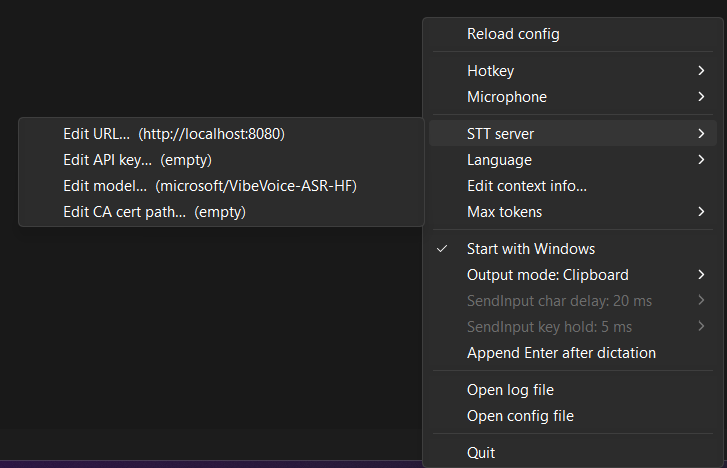
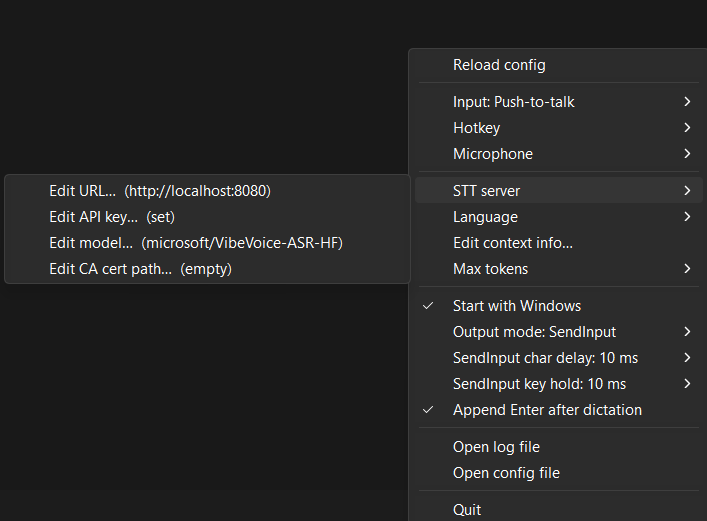
docs: refresh tray screenshot, document VAD mode + new defaults
Replaces the tray-menu.png with an up-to-date capture that shows the
new Input submenu and the SendInput char-delay / key-hold submenus.

README updates:
- Intro now mentions voice-activation as an alternative to push-to-talk.
- First-run checklist adds an Input-mode step + covers both cancel paths
  (PTT double-tap, PTT post-release, VAD hotkey).
- Config reference gains [input] and [vad] sections.
- SendInput docs note the new 10 ms key-hold default.
- Tray menu reference lists the new Input: Push-to-talk / Voice activation
  submenu.

diff --git a/README.md b/README.md
@@ -2,12 +2,15 @@
 
 ![vibe-dictate tray menu](assets/tray-menu.png)
 
-A Windows tray-resident push-to-talk dictation tool that talks to any
+A Windows tray-resident dictation tool that talks to any
 **OpenAI-compatible** speech-to-text server — most notably Microsoft's
 **VibeVoice ASR**, but also OpenAI Whisper itself, self-hosted Whisper
 /vLLM deployments, and anything else that speaks
 `POST /v1/audio/transcriptions`. Hold a hotkey, speak, release — the
-transcription lands in whatever window has focus.
+transcription lands in whatever window has focus. Or flip it into
+**voice-activation mode** and let the built-in VAD slice your speech
+into utterances automatically; the hotkey then becomes an "undo the
+last thing it picked up" button.
 
 Built for Hungarian dictation but works in any of the 50+ languages
 VibeVoice-ASR supports. Multilingual by accident of the backend; Hungarian
@@ -275,11 +278,16 @@ launch in `notepad.exe`).
    preset or `Rebind…` and press the combination you want.
 3. **Microphone**: tray → Microphone → pick a device, or leave on
    `(System default)`.
-4. **Hold-to-talk**: hold the hotkey, speak, release. Tray icon turns
-   green while recording. Transcription should appear in the focused
-   window 1-3 seconds after release.
-5. **Cancel**: double-tap the hotkey within 400ms while recording — the
-   tray flashes red and the buffered audio is dropped without sending.
+4. **Input mode**: default is push-to-talk. Tray → Input → Voice
+   activation flips the mic to always-on with VAD-based utterance
+   slicing (useful for long-form dictation).
+5. **Hold-to-talk** (PTT mode): hold the hotkey, speak, release. Tray
+   icon turns green while recording. Transcription should appear in
+   the focused window 1-3 seconds after release.
+6. **Cancel**: double-tap the hotkey within 400 ms while recording,
+   or single-press shortly after release to drop the in-flight
+   transcription. In voice-activation mode the hotkey cancels
+   whatever VAD just captured (or is still processing).
 
 ---
 
@@ -308,12 +316,27 @@ sample_rate = 16000     # VibeVoice expects 16 kHz mono
 [hotkey]
 binding = "F8"          # see "Hotkey reference" below
 
+[input]
+mode = "push_to_talk"   # "push_to_talk" or "voice_activation"
+                        # voice_activation = the mic stays hot; energy-based
+                        # VAD chops speech into utterances and sends each
+                        # one on its own. In that mode the hotkey binding
+                        # above becomes a cancel-in-flight button.
+
+[vad]
+start_frames     = 3    # consecutive 20 ms frames of speech needed to open an utterance
+end_frames       = 35   # consecutive 20 ms frames of silence that close it (≈ 700 ms)
+max_seconds      = 30   # hard cap — utterance auto-closes regardless of silence
+min_utterance_ms = 300  # drop utterances shorter than this (typing noise, throat clears)
+speech_ratio     = 3.0  # RMS must exceed noise_floor × this to count as speech (~+9.5 dB SNR)
+noise_floor_min  = 80.0 # absolute floor on the adaptive noise estimate
+
 [output]
 mode                    = "clipboard"  # "clipboard" or "sendinput"
 trailing_space          = true         # append " " after transcription (helps when chaining utterances)
 send_enter              = false        # press Enter after the text — useful in chat clients / terminals
 send_key_delay_ms       = 20           # SendInput: ms sleep between characters; safe default, lower for faster typing on well-behaved editors
-send_key_down_delay_ms  = 0            # SendInput: ms to hold each key "down" (raise for legacy apps that filter zero-duration presses)
+send_key_down_delay_ms  = 10           # SendInput: ms to hold each key "down" (some apps filter zero-duration presses; 10 ms is reliable & imperceptible)
 
 [startup]
 autostart       = false   # add to HKCU\...\Run on next save
@@ -385,6 +408,12 @@ Right-click the tray icon to get:
 
 - **Reload config** — re-reads `config.toml` from disk; useful after
   hand-edits or for picking up changes from other tools.
+- **Input: Push-to-talk / Voice activation** — picks between the two
+  modes. Push-to-talk is the default: the hotkey opens the mic while
+  held. Voice activation keeps the mic always on and uses an internal
+  energy-based VAD to slice speech into utterances; the hotkey then
+  doubles as a cancel button for whatever the VAD just captured or is
+  still processing.
 - **Hotkey** — submenu with preset bindings (F7-F12, Pause, ScrollLock)
   + `Rebind…` (Win32 capture popup that accepts any key/mouse +
   modifiers). The active binding is checked. Custom captured bindings
@@ -430,7 +459,9 @@ custom paste handlers may behave unexpectedly.
 Injects each UTF-16 code unit as a `KEYEVENTF_UNICODE` keystroke via the
 Win32 `SendInput` API, paced by `output.send_key_delay_ms` between
 characters (default 20 ms ≈ 50 chars/sec — safe for Electron, Notepad,
-and most terminals). Errors and partial deliveries are logged.
+and most terminals) and `output.send_key_down_delay_ms` as the per-key
+hold time (default 10 ms — imperceptible, but several apps drop
+zero-duration presses). Errors and partial deliveries are logged.
 
 Pros: no clipboard side-effects, clean for chat clients and terminals.
 
